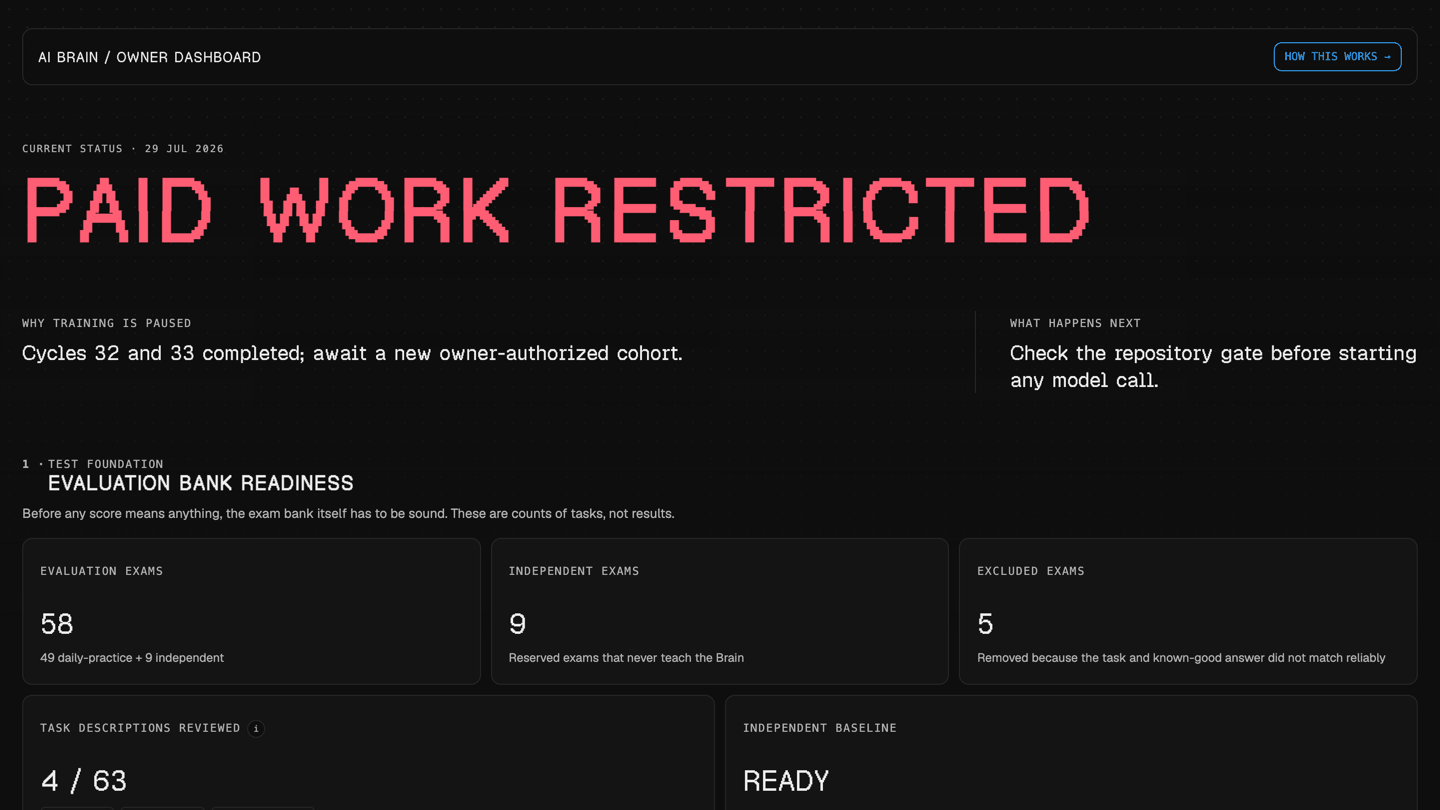
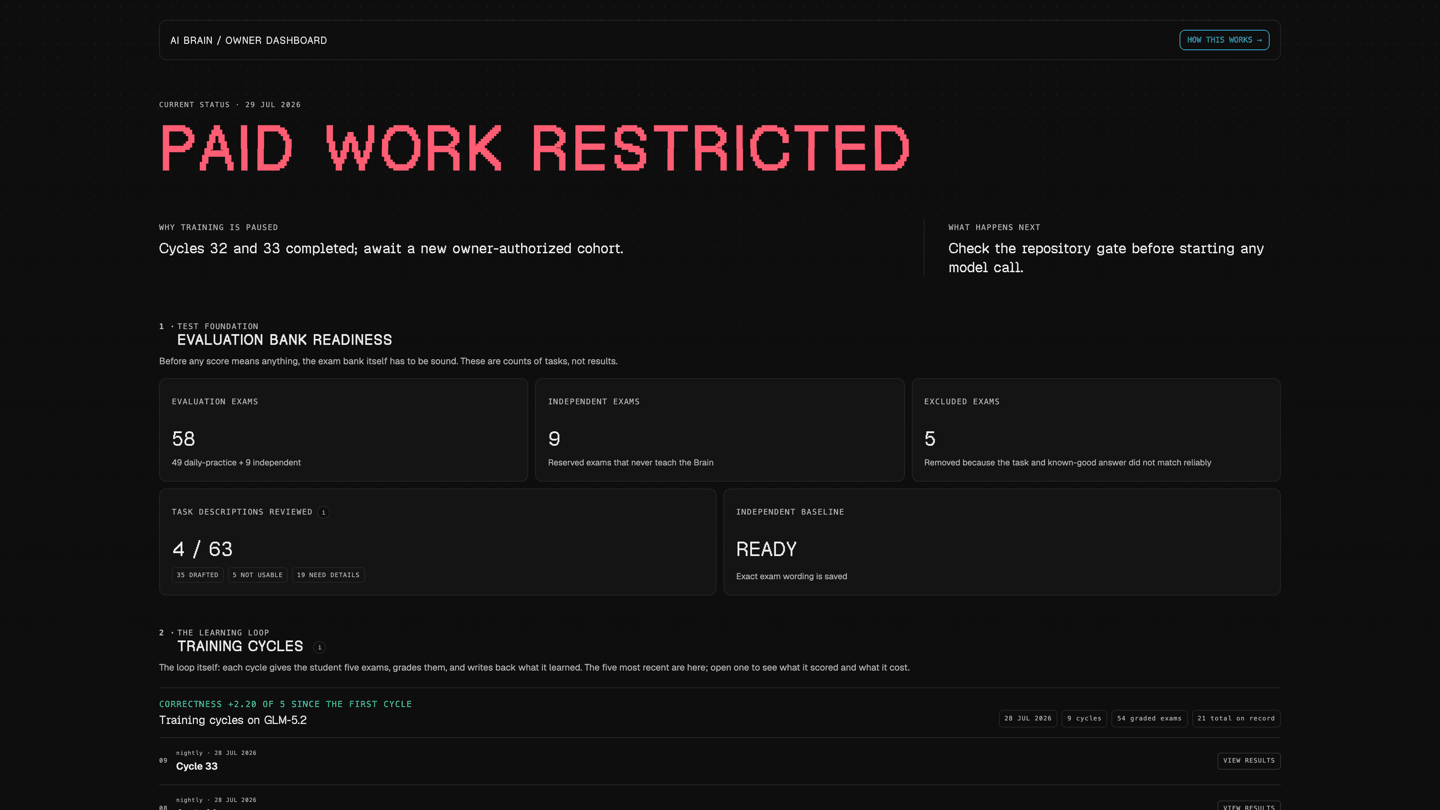
Clean up the flow-chart drawing; drop the invisible sketch filter
The system-architecture diagram did not look clean. Captured it at 3.2x
magnification over the DevTools protocol with the #fc-sketch hand-drawn
filter on and with filter:none forced, and diffed the two: pixel
identical, max channel delta 0.

The filter chain was fine — swapping its primitives for a gaussian blur
blurred the whole chart, and raising the displacement to scale=18
crinkled it visibly. It was just far too weak to see: baseFrequency 0.02
varies over ~50-unit periods and scale 2.4 displaces by at most about one
user unit, which rounds away at the rendered scale of 1.18.

So the chart was machine-perfect geometry wearing a handwriting font, and
that mismatch is what read as "not clean" — a sketchy typeface promising
a hand-drawn diagram the geometry never delivered. It also cost 13
chart-sized filter buffers on every paint for no visible effect.

Removed the filter and committed to a precise diagram instead:
- rounded line joins and caps, so corners and line ends look intentional
- non-scaling strokes, so weight holds however the viewBox is scaled
- connectors lightened to 1.5 against the shapes' 2, so the boxes lead
  and the connectors read as grammar between them; arrowheads recoloured
  to match their own line
- subtitles mixed 45% toward the page text colour — the raw Excalidraw
  tone at full saturation was barely legible on a near-black panel

This retires the ADR-041 objectBoundingBox hazard along with the filter,
[…]

diff --git a/src/main.jsx b/src/main.jsx
@@ -357,12 +357,6 @@ const projects = [
         en: 'One backend, two clients, and a rule that user data never touches the server.',
         ja: 'ひとつのバックエンドに2つのクライアント。ユーザーデータはサーバーを通らない設計。',
       },
-      highlights: [
-        { value: '2', label: { en: 'clients from one repository', ja: '1リポジトリから2クライアント' } },
-        { value: '7', label: { en: 'LaTeX documents — 5 EN, 2 JA', ja: 'LaTeX書類（英5・日2）' } },
-        { value: '5', label: { en: 'tracked application states', ja: '応募ステータス5段階' } },
-        { value: '0', label: { en: 'user records on my server', ja: 'サーバー上の個人データ' } },
-      ],
       status: {
         en: 'In active development. The web app is live and the iOS client is built from the same shared contracts.',
         ja: '現在も開発中です。Webアプリは公開済みで、iOSクライアントも同じ共有コントラクトから構築しています。',
@@ -624,7 +618,9 @@ const projects = [
           sub: { en: 'SDP + ICE, TURN relay', ja: 'SDP + ICE / TURN' },
           edge: { en: '256 KB chunks', ja: '256KBチャンク' },
           branch: {
-            title: { en: 'SHA-256 manifest', ja: 'SHA-256マニフェスト' },
+            // Trimmed for the 116-unit phone branch box: the full
+            // "SHA-256マニフェスト" measured 112.6 and left no margin at all.
+            title: { en: 'SHA-256 manifest', ja: 'SHA-256照合' },
             edge: { en: 'verify', ja: '検証' },
           },
         },
@@ -1511,23 +1507,18 @@ function ProjectFlowChart({ stages, locale, label }) {
           >
             <path d="M 0 0 L 10 5 L 0 10 z" className="fc-arrowhead" />
           </marker>
-          {/* A gentle wobble on every stroke — the hand-drawn Excalidraw look
-              the user asked for. Only ever one flow chart is mounted at a
-              time (routed detail view), so a single static id is safe.
-              userSpaceOnUse (not the default objectBoundingBox) because the
-              connector lines are perfectly axis-aligned: their bounding box
-              has zero width or height, which collapses a percentage-based
-              filter region to nothing and makes the line disappear. */}
-          <filter id="fc-sketch" filterUnits="userSpaceOnUse" x={-40} y={-40} width={width + 80} height={height + 80}>
-            <feTurbulence type="fractalNoise" baseFrequency="0.02" numOctaves="2" seed="7" result="fc-noise" />
-            <feDisplacementMap
-              in="SourceGraphic"
-              in2="fc-noise"
-              scale="2.4"
-              xChannelSelector="R"
-              yChannelSelector="G"
-            />
-          </filter>
+          {/* There used to be an `#fc-sketch` turbulence/displacement filter
+              here, meant to give every stroke a hand-drawn wobble (ADR-039,
+              ADR-041). Measured at 3.2x magnification it was invisible: with
+              `baseFrequency 0.02` the noise varies over ~50-unit periods and
+              `scale 2.4` displaces by at most ~1 unit, so filtered and
+              unfiltered renders came out pixel-identical (max channel delta 0).
+              Raising the scale to 18 proved the chain worked — it was simply
+              too subtle to see. So the chart was machine-perfect geometry
+              wearing a handwriting font, which is what read as "not clean":
+              the two halves disagreed. It now commits to a precise diagram,
+              and stops allocating 13 chart-sized filter buffers per render for
+              no visible effect (ADR-044). */}
         </defs>
 
         {stages.map((stage, index) => {

diff --git a/src/styles.css b/src/styles.css
@@ -1803,18 +1803,22 @@ small.red {
   overflow: visible;
 }
 
+/* Crisp, deliberate geometry. Rounded joins and caps so every corner and line
+   end looks intentional rather than clipped (ADR-044). */
 .fc-shape {
   fill: color-mix(in srgb, var(--fc-tone, #6ea8ff) 9%, #14171b);
   stroke: var(--fc-tone, #6ea8ff);
   stroke-width: 2;
-  filter: url(#fc-sketch);
+  stroke-linejoin: round;
+  vector-effect: non-scaling-stroke;
 }
 
 .fc-store-lip {
   fill: none;
   stroke: var(--fc-tone, #6ea8ff);
   stroke-width: 2;
-  filter: url(#fc-sketch);
+  stroke-linecap: round;
+  vector-effect: non-scaling-stroke;
 }
 
 /* Font sizes come from the flow-chart geometry (wide vs compact tuning). */
@@ -1826,24 +1830,30 @@ small.red {
   dominant-baseline: middle;
 }
 
+/* The raw tone at full saturation is far too dark to read on a near-black
+   panel — "React SPA + SwiftUI" in Excalidraw green measured as barely legible.
+   Mixing it toward the page's text colour keeps the per-stage tint while
+   restoring contrast (ADR-044). */
 .fc-sub {
-  fill: var(--fc-tone, #8d949b);
+  fill: color-mix(in srgb, var(--fc-tone, #8d949b) 45%, #e6ebf0);
   font-family: 'Excalifont', 'Comic Sans MS', cursive, sans-serif;
   font-weight: 400;
-  opacity: 0.85;
   text-anchor: middle;
   dominant-baseline: middle;
 }
 
+/* Lighter than the shape outlines on purpose: the boxes are the subject and
+   the connectors are the grammar between them. */
 .fc-edge {
   fill: none;
-  stroke: #757b82;
-  stroke-width: 1.8;
-  filter: url(#fc-sketch);
+  stroke: #8a9199;
+  stroke-width: 1.5;
+  stroke-linecap: round;
+  vector-effect: non-scaling-stroke;
 }
 
 .fc-arrowhead {
-  fill: #9099a1;
+  fill: #8a9199;
 }
 
 .fc-edge-label {

diff --git a/agent/state.md b/agent/state.md
@@ -8,6 +8,8 @@ The workspace contains a Vite React portfolio inspired by `manixh.dev`, populate
 
 ## Recent changes
 
+- 2026-07-29 (flow-chart drawing quality, ADR-044): The user asked why the system-architecture diagram did not look clean — "not the straight lines alone, but the drawing itself." Captured the chart at 3.2x over CDP with the `#fc-sketch` hand-drawn filter on and forced off, and diffed: **pixel-identical, max channel delta 0.** The filter chain worked (a blur primitive blurred everything; `scale=18` crinkled it) but at `baseFrequency 0.02` / `scale 2.4` it displaced by at most ~1 user unit and rounded away entirely. The chart was therefore machine-perfect geometry wearing a handwriting font, which is exactly what read as "not clean", while costing 13 chart-sized filter buffers per paint. Removed the filter and committed to a precise diagram: rounded joins and caps, non-scaling strokes, connectors lightened to 1.5 against the shapes' 2 so the boxes lead, arrowheads matched to their line, and subtitles mixed 45% toward the page text colour because the raw Excalidraw tone was barely legible on near-black. Also removed the "By the numbers" strip from the Internship Portal page at the user's request (kept on AI Brain), re-shot the AI Brain preview at a 2048x1152 logical viewport so the frame is filled with dashboard rather than empty space, and trimmed two Japanese branch labels that had no margin in the 116-unit phone box. Verified all six charts in EN and JA at 375px and 1280px; production build clean.
+
 - 2026-07-29 (two current projects added, ADR-043): Researched the user's two active repos and added them as the first two project cards. **Internship Portal** (`resume-studio-dashboard`, public, live) — a bilingual internship tracker, résumé editor and LaTeX-to-PDF compiler shipping a React web app and a SwiftUI iOS app from one repository, whose defining rule is that user data never touches the server (clients read/write Firestore directly under owner-only rules; the Express server on Azure owns only the shared catalog, the compile endpoint and a Gmail action queue). **AI Brain Platform** (`ai-brain-platform`, private) — the user's own research into making a cheap model behave like a long-time teammate without any fine-tuning: versioned Markdown as the source of truth, Postgres+pgvector as a fully rebuildable index, RAG plus an MCP server for retrieval, and a graded exam loop that replays real git history. Screenshots were captured from the live site and from the repo's own committed dashboard at 1440x810 over the DevTools protocol. `project.github` is now optional so the private repo shows a "Private repo" label instead of a dead link, and detail pages gained optional `highlights` (a four-figure strip) and `status` (where the project honestly stands) blocks. Also fixed TokaiHub's live URL, which still pointed at GitHub Pages. Verified in EN and JA at 375px and 1280px; production build clean.
 
 - 2026-07-29 (repo-wide bug sweep, ADR-042): Pulled four automated snapshot commits, then audited the whole repo and fixed everything found. Layout: timeline dots were 12px off the dashed line for the entire 561-760px band (the `<=760px` `.dot` offset assumed a negative summary margin that does not apply until `<=560px`), and at `<=470px` the project title and Live/GitHub buttons were centred over a left-aligned card because the stacked heading inherited `align-items: center`. The contribution grid was rebuilt from a 35-column row-major block of 245 days into 52 week-columns x 7 rows covering a real 12 months, with month labels anchored to the week each month starts in — previously the nine evenly-spaced labels sat above days they had nothing to do with, and the caption claimed 12 months over ~8 months of data. Behaviour: "Back to projects" used `history.length > 1` and could send a visitor who arrived from a shared link straight back off the site; the detail overlay declared `role="dialog" aria-modal="true"` while Escape did nothing, focus never entered it, and 33 background controls stayed tabbable. Both fixed, with focus deferred until the entrance tween actually makes the overlay visible. Toolchain: added `.nvmrc` + `engines` (Node 20.11 on this machine fails every Vite 8 command), added the missing `vite.config.js` so the dev server finally has Fast Refresh, guarded `createRoot` against HMR re-entry, moved build deps to `devDependencies`, dropped the unused `qrcode`, and marked the package private. Content and robustness: the Japanese CV was a byte-identical copy of the English one and has been replaced with the real 履歴書・職務経歴書 supplied by the user, restoring the locale-aware résumé link, the stale hardcoded `561` fallback total is now derived from the data, an error boundary plus a date-shape filter keep one malformed API row from blanking the page, Japanese-locale screen-reader strings are localized, CDN icon URLs are pinned with an `onError` fallback, and 16 unused images (~916 KB) were deleted. README drift corrected along the way (React 18 -> 19, Codex Account Switcher -> ClaudeShot, a `qrcode` dependency the site never used). Verified by measurement at 320/375/400/561/700/760/761/1280px in both locales; production build clean.

diff --git a/agent/decisions.md b/agent/decisions.md
@@ -506,3 +506,22 @@ Decision:
 5. **Honest status over flattery.** The AI Brain page states that the held-out exams are not passing yet. The dashboard hero the user chose shows a red "PAID WORK RESTRICTED" banner; that is the project's real operational state and the user picked it deliberately.
 
 Consequences: `project.github` being optional means any future card must not assume it exists. The compact (phone) flow-chart branch box is 116 user units wide — "Firestore（所有者限定）" measured 126 and spilled out of the viewBox, so branch titles must stay short and push qualifiers into the edge label or the prose. Verified both new detail pages in EN and JA at 375px and 1280px with zero flow-chart overflow and no page overflow. Also corrected TokaiHub's live URL, which still pointed at GitHub Pages after the project moved to tokaihub.mohamedfuad.com.
+
+## ADR-044 - 2026-07-29 - The flow chart's hand-drawn filter was invisible; commit to a precise diagram
+
+Status: Accepted
+Supersedes the sketch-filter portion of ADR-039 and ADR-041.
+
+Context: The user said the system-architecture diagram did not look clean — "not the straight lines alone, but the drawing itself." Investigated by capturing the chart at 3.2x magnification over the DevTools protocol, with the `#fc-sketch` filter on and with `filter: none` forced on every `.fc-shape` / `.fc-edge` / `.fc-store-lip`.
+
+The two renders were **pixel-identical — max channel delta 0, no differing bounding box.** The filter chain itself was fine (replacing its primitives with `feGaussianBlur stdDeviation=6` blurred the whole chart, and raising the displacement to `scale=18` produced obvious crinkling), so the reference resolved and the filter applied. It was simply too weak to see: `feTurbulence baseFrequency="0.02"` varies over roughly 50-unit periods and `feDisplacementMap scale="2.4"` displaces by at most about one user unit, which rounds away at the rendered scale of 1.18.
+
+So the diagram was machine-perfect geometry wearing a handwriting font. That mismatch — a sketchy typeface promising a hand-drawn diagram that the geometry never delivers — is what read as "not clean". It also cost 13 chart-sized filter buffers (700x508 user units each, since ADR-041 made the region cover the whole chart for every element) on every paint, for no visible effect.
+
+Decision: Removed `#fc-sketch` entirely and committed to a precise diagram, keeping Excalifont for warmth:
+- `stroke-linejoin: round` on shapes and `stroke-linecap: round` on lines, so corners and line ends look intentional.
+- `vector-effect: non-scaling-stroke`, so stroke weight stays consistent regardless of how the viewBox is scaled to the container.
+- Subtitles were `fill: var(--fc-tone)` at full saturation — Excalidraw green on a near-black panel is barely legible. Now `color-mix(in srgb, var(--fc-tone) 45%, #e6ebf0)`, which keeps the per-stage tint and restores contrast.
+- Connectors lightened to `1.5` against the shapes' `2`, so the boxes lead and the connectors read as grammar between them; arrowheads recoloured to match their line instead of sitting a shade apart.
+
+Consequences: The ADR-041 hazard is retired along with the filter — there is no longer an `objectBoundingBox`-vs-`userSpaceOnUse` trap here, because no filter is applied to zero-area shapes. If a hand-drawn look is ever wanted again, do it as **geometry** (perturb the path data, roughjs-style) rather than as a post-process filter; a displacement filter subtle enough not to look noisy is also subtle enough to be invisible. Re-verified all six charts in EN and JA at 375px and 1280px: no text outside a viewBox, no text overflowing its shape, and every connector still painted.

diff --git a/agent/errors.md b/agent/errors.md
@@ -22,3 +22,6 @@
 - Chrome's `--headless --screenshot --virtual-time-budget=N` fast-forwards timers, which breaks Firebase auth initialisation and captures SPAs on their "Loading…" frame. For a real screenshot, drive the DevTools protocol instead: `Page.navigate` → wait for `Page.loadEventFired` → settle a few seconds → `Page.captureScreenshot`, with `Emulation.setDeviceMetricsOverride` at `deviceScaleFactor: 2` for the 1440x810 preview convention.
 - Project previews are not all PNGs despite the `.png` names — several are JPEG bytes with a `.png` extension. When adding a preview, pick the format by content: JPEG for light gradient-heavy UI, PNG (quantized to 256 colours) for dark screenshots of small monospace text, where JPEG rings badly around glyphs.
 - `project.github` is optional. A project whose repo is private renders a "Private repo" label instead; never emit a link to a private repository URL, since it 404s for every visitor.
+- The `#fc-sketch` turbulence/displacement filter that was supposed to give the flow chart a hand-drawn wobble was **invisible**: filtered and `filter: none` renders came out pixel-identical at 3.2x magnification (max channel delta 0). `baseFrequency 0.02` varies over ~50-unit periods and `scale 2.4` displaces by at most ~1 unit, which rounds away at the rendered scale. The chain worked — swapping in `feGaussianBlur stdDeviation=6` blurred everything, and `scale=18` crinkled it visibly. General rule: a displacement filter subtle enough not to look noisy is usually subtle enough to be invisible; do hand-drawn looks as perturbed path geometry, not as a post-process filter. Removed in ADR-044.
+- When judging rendering quality, do not trust the un-magnified preview pane. Capture a clipped, magnified screenshot over CDP (`Page.captureScreenshot` with a `clip` and `scale: 3`) and diff the variants with Pillow — that is what turned "the drawing feels off" into a measurable zero-delta finding.
+- Compact (phone) flow-chart geometry gives branch boxes only 116 user units. Japanese branch titles must stay under roughly 105 units: "Firestore（所有者限定）" measured 126 and left the viewBox, and "SHA-256マニフェスト" measured 112.6 and left no margin. Push qualifiers into the edge label or the prose.
